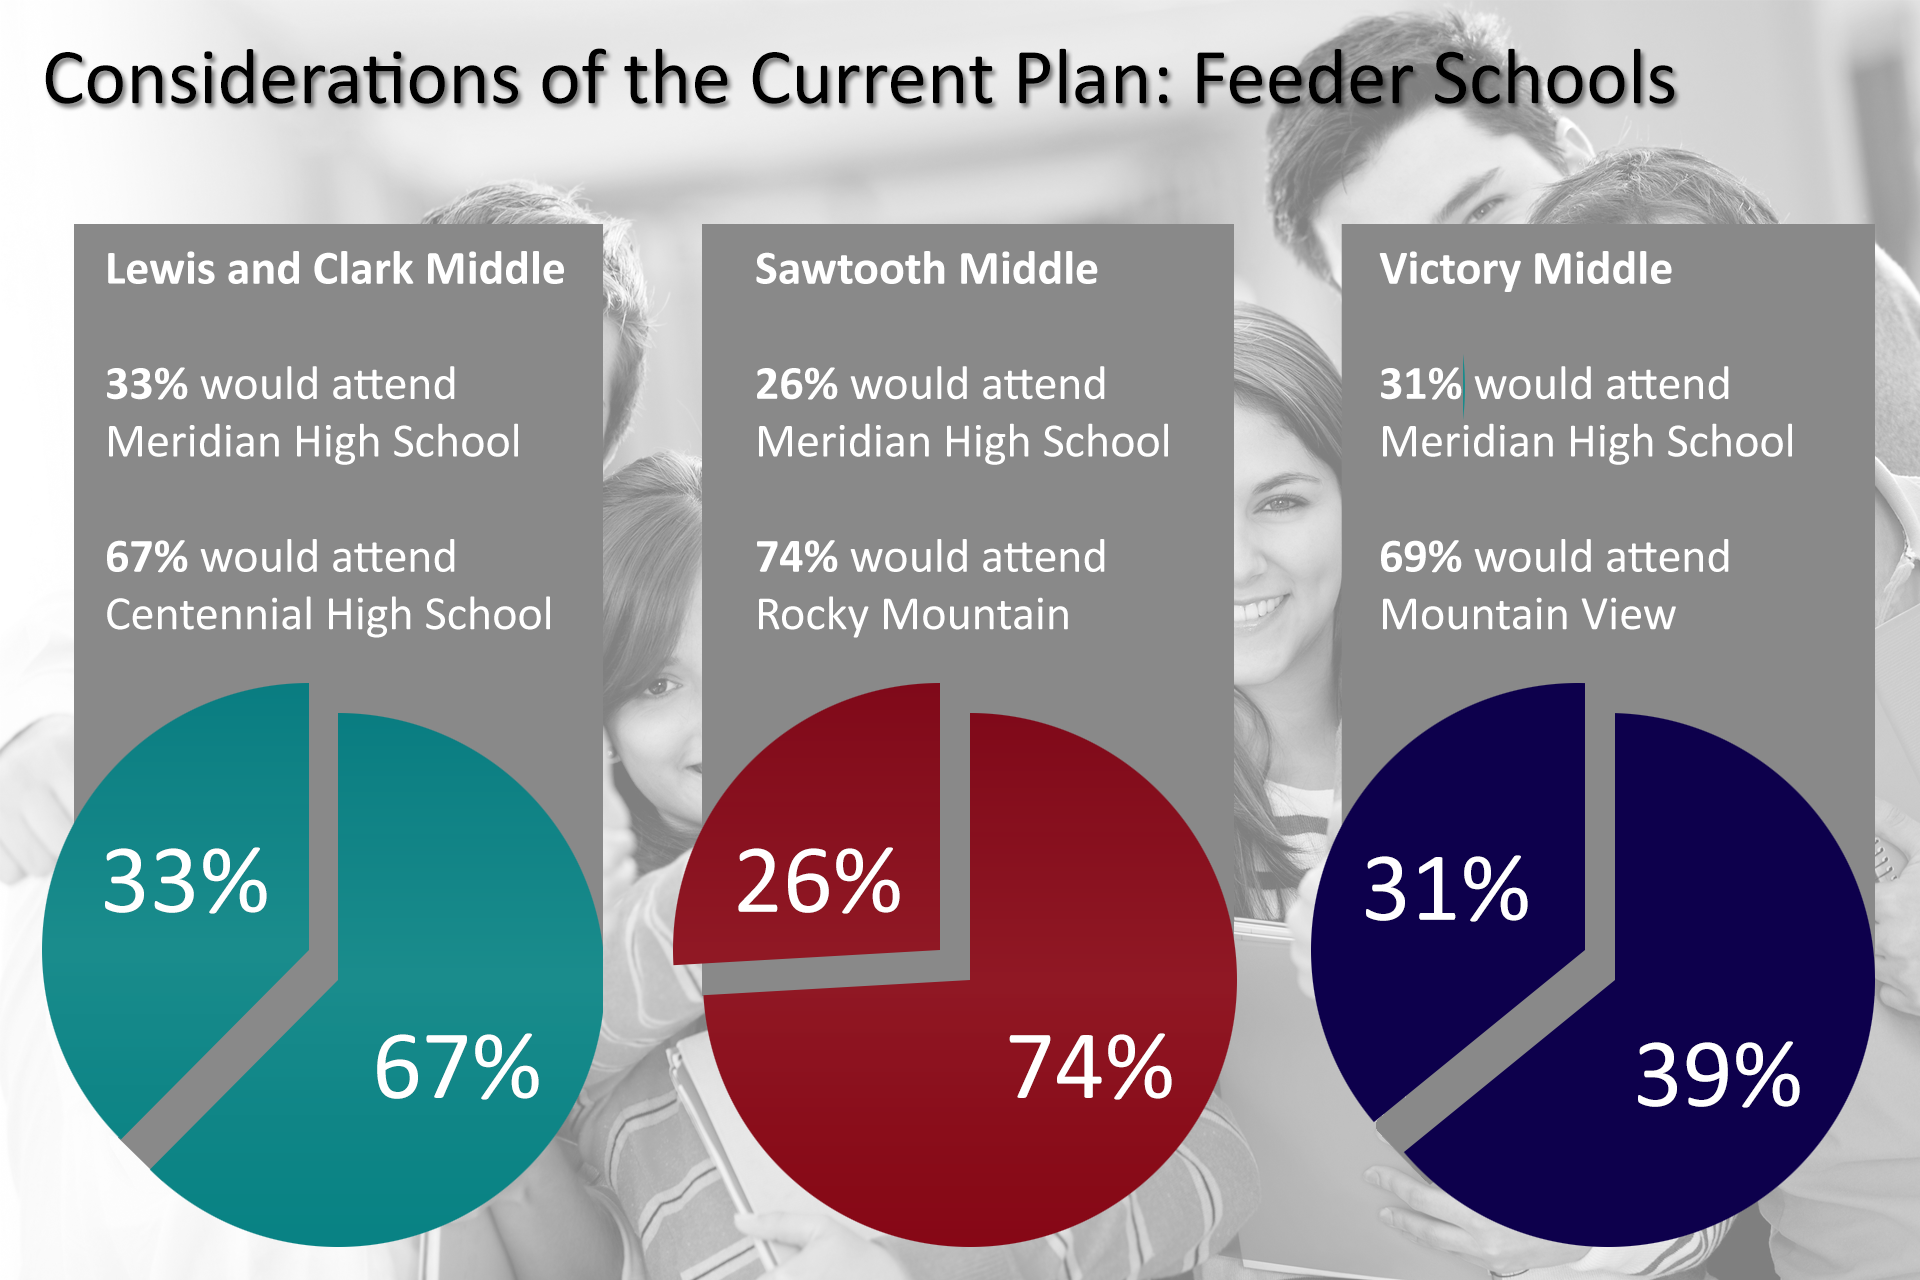
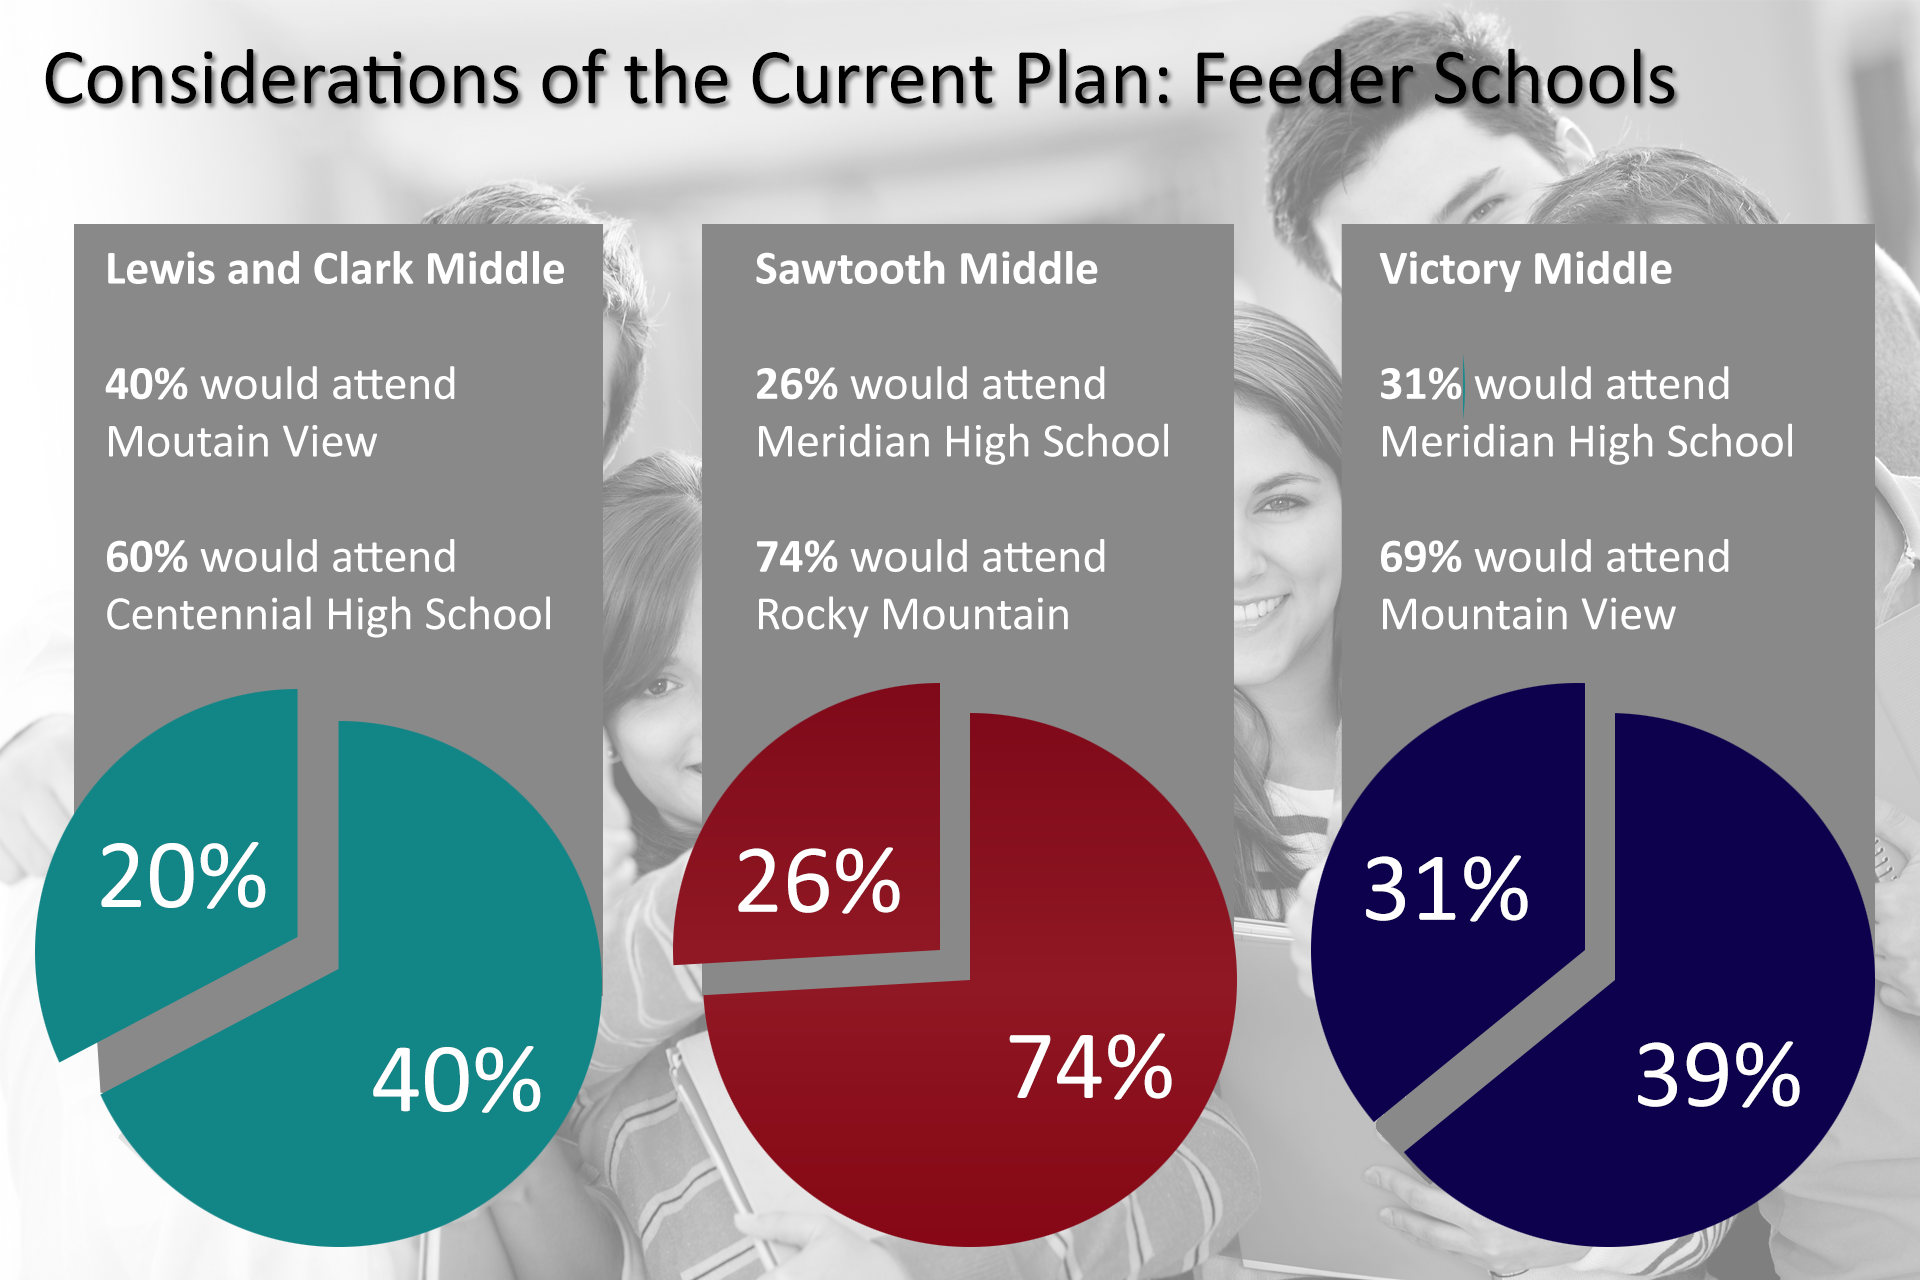
updates

diff --git a/index.php b/index.php
@@ -236,7 +236,7 @@
       <i class="icon icon-streetsign"></i>
       <h2 class="main_title">
         <span class="sub_title">Current Proposal</span>
-        Looking for a  <span class="base-highlight">Solution</span>
+        A Step  <span class="base-highlight">BAckwards</span>
       </h2>
     </header>
 
@@ -252,15 +252,13 @@
 
         <div class="row flex-row-center">
           <div class="col-md-6">
-            <div class="embed-video-container embed-responsive embed-responsive-16by9">
-              <object id="flashObj" width="480" height="270" classid="clsid:D27CDB6E-AE6D-11cf-96B8-444553540000" codebase="http://download.macromedia.com/pub/shockwave/cabs/flash/swflash.cab#version=9,0,47,0"><param name="movie" value="http://c.brightcove.com/services/viewer/federated_f9?isVid=1&isUI=1" /><param name="bgcolor" value="#FFFFFF" /><param name="flashVars" value="videoId=4688928001001&playerID=3615632433001&playerKey=AQ~~,AAADSfuNQ3k~,5bO9F2ttkqv21-8yrWXDJAm6M6MfB6sv&domain=embed&dynamicStreaming=true" /><param name="base" value="http://admin.brightcove.com" /><param name="seamlesstabbing" value="false" /><param name="allowFullScreen" value="true" /><param name="swLiveConnect" value="true" /><param name="allowScriptAccess" value="always" /><embed src="http://c.brightcove.com/services/viewer/federated_f9?isVid=1&isUI=1" bgcolor="#FFFFFF" flashVars="videoId=4688928001001&playerID=3615632433001&playerKey=AQ~~,AAADSfuNQ3k~,5bO9F2ttkqv21-8yrWXDJAm6M6MfB6sv&domain=embed&dynamicStreaming=true" base="http://admin.brightcove.com" name="flashObj" width="480" height="270" seamlesstabbing="false" type="application/x-shockwave-flash" allowFullScreen="true" allowScriptAccess="always" swLiveConnect="true" pluginspage="http://www.macromedia.com/shockwave/download/index.cgi?P1_Prod_Version=ShockwaveFlash"></embed></object>
-            </div>    
+            <img class="img-responsive" alt="Feature Image" src="assets/img/proposal/more-confusion.png"> 
           </div>
 
           <div class="col-md-5 col-md-offset-1">
-            <h4>KTVB News Coverage of the Boundary Proposal</h4>
-            <p>"Changing attendance areas is always an emotional issue," West Ada School District spokesman Eric Exline told KTVB. "People are concerned about their kids getting separated from their peers, distance to schools, the affiliations that they've made for the schools."</p>      
-            <p><small>source: <a href="http://www.ktvb.com/story/news/education/2016/01/07/w-ada-schools-present-new-boundaries/78398078/" target="_blank">http://www.ktvb.com</a></small></p>
+            <h4>Changes Made on January 14, 2016</h4>
+            <p>After the second public hearing on Wednesday, January 13, the Attendance Area Committee met for five hours on Thursday night, January 14 to consider changes to the attendance area proposal.  It appears the committee heard the conserns of some members of the community while ignoring the conserns of others.</p>      
+            <a href="http://www.westada.org/site/default.aspx?PageType=3&DomainID=4&ModuleInstanceID=63&ViewID=047E6BE3-6D87-4130-8424-D8E4E9ED6C2A&RenderLoc=0&FlexDataID=70849&PageID=1" class="read-more" target="_blank">View the Committee's Changes</a>
           </div>
 
         </div>
@@ -270,12 +268,12 @@
 
         <div class="row flex-row-center">
           <div class="col-md-6">
-            <img class="img-responsive" alt="Feature Image" src="assets/img/proposal/overcrawding.png">
+            <img class="img-responsive" alt="Feature Image" src="assets/img/proposal/campaire-overcrowding.png">
           </div>
           <div class="col-md-5 col-md-offset-1">
             <h4>Balanced Enrollment and Overcrowding</h4>
-            <p>The current proposal tries to solve the balanced enrollment and overcrowding issue.  In the proposal it is stated that, "To achieve equal enrollment, all schools would be 17% over capacity."  As you can see, the plan offered makes progress toward that ideal, but there is much more work to do to balance the enrollment.</p>
-            <a href="/downloads/final-presentation.pptx" class="read-more">Download the Current Proposal</a>
+            <p>The changes made on January 14, 2016 are a step backwards in trying to reach the goal of balancing enrollment and overcrowding.  Keep in mind the statement made by the school district, "To achieve equal enrollment, all schools would be 17% over capacity."  As you can see, the new proposal's pecentages are worse then they were before.  The alternative solution presented here has estblishes greater equality across all high schools.</p>
+            <a href="http://www.westada.org/site/default.aspx?PageType=3&DomainID=4&ModuleInstanceID=63&ViewID=047E6BE3-6D87-4130-8424-D8E4E9ED6C2A&RenderLoc=0&FlexDataID=70849&PageID=1" class="read-more" target="_blank">View the Committee's Changes</a>
           </div>
         </div>
 
@@ -285,7 +283,7 @@
         <div class="row flex-row-center">
           <div class="col-md-6">
             <h4>Middle School Splits</h4>
-            <p>Middle Schools are considered "feeder schools" for each high school.  The current plan calls for uneven, and in some cases unnecessary, splits of three middle schools.  The goal, as stated by the school district is an even 50-50 split.  Again, there is more work that needs to be done to achieve this goal.</p>
+            <p>The comment, "students to stay with their peers as they go into high school"  is encouraging and provides hope that the committee is listening and working to align the plan to the goals they established.  That said the adjusted plan calls for uneven, and in some cases unnecessary, splits of three middle schools.  The goal, as stated by the school district is an even 50-50 split.  Again, there is more work that needs to be done to achieve this goal.</p>
             <a href="/downloads/final-presentation.pptx" class="read-more">Download the Current Proposal</a>
           </div>
           <div class="col-md-6">
